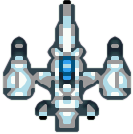
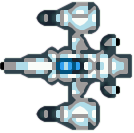
Introduce raptor

diff --git a/src/classes/raptor.ts b/src/classes/raptor.ts
@@ -1,0 +1,94 @@
+import * as Phaser from "phaser";
+import { GameManager } from "../gamemanager";
+import { Enemy } from "./enemy";
+import { HomingMissile } from "./homingmissile";
+
+export class Raptor extends Enemy {
+  protected speed: number;
+  protected fireRate: number = 2000;
+  protected time: number = 0;
+  protected lastFireTime: number = 0;
+  protected targetY: number;
+  protected currentY: number;
+  protected delay: number;
+
+  constructor(
+    scene: Phaser.Scene,
+    x: number,
+    y: number,
+    maxSpeed: number = 100,
+    minFireDelay: number = 1000
+  ) {
+    super(scene, x, y, "enemy2");
+    this.speed = Phaser.Math.Between(30, maxSpeed); // 100
+    if (Math.random() > 0.5) this.speed *= -1;
+
+    this.fireRate = Phaser.Math.Between(minFireDelay, 2000); // 1000
+    this.lastFireTime = 0;
+    this.scale = 0.8;
+
+    this.targetY = Phaser.Math.Between(
+      this.scene.game.canvas.height / 5,
+      this.scene.game.canvas.height / 2
+    );
+    this.delay = Phaser.Math.Between(0, 1000); // Add a random delay between 0 and 5000 milliseconds
+
+    this.currentY = -Phaser.Math.Between(
+      this.scene.game.canvas.height / 5,
+      this.scene.game.canvas.height / 2
+    );
+    this.x = Phaser.Math.Between(1, this.scene.game.canvas.width - 1);
+
+    this.scene.add.existing(this);
+  }
+
+  fireBullet() {
+    let bullet = new HomingMissile(
+      this.scene,
+      this.x + Math.cos(this.rotation) * (this.getBounds().width / 2),
+      this.y + Math.sin(this.rotation) * (this.getBounds().height / 2)
+    );
+    this.bulletSound.play();
+  }
+
+  preUpdate(time: number, delta: number) {
+    this.time += delta;
+
+    // Rotate towards player.
+    if (!!(this.scene as GameManager).player) {
+      // Calculate the angle between the enemy and the player
+      let angle = Phaser.Math.Angle.Between(
+        this.x,
+        this.y,
+        (this.scene as GameManager).player?.x ?? 0,
+        (this.scene as GameManager).player?.y ?? 0
+      );
+      this.rotation = angle;
+    } else {
+      // Rotate sprite
+      // radians = degrees * pi / 180.
+      this.rotation = Math.PI / 2; //90 degrees
+    }
+
+    this.x += this.speed * (delta * 0.01);
+    if (this.currentY < this.targetY) {
+      this.currentY += Math.abs(this.speed) * (delta * 0.01);
+    }
+
+    this.y = this.currentY + Math.cos(this.time * 0.005) * 60;
+
+    // Fire a bullet towards the player every fireRate in 1000ths of second
+    if (
+      this.time - this.lastFireTime > this.fireRate &&
+      this.time > this.delay
+    ) {
+      this.fireBullet();
+      this.lastFireTime = this.time;
+    }
+
+    // Change the enemy's direction if it reaches the edge of the screen
+    if (this.x < 0 || this.x > this.scene.game.canvas.width) {
+      this.speed *= -1;
+    }
+  }
+}

diff --git a/src/classes/homingmissile.ts b/src/classes/homingmissile.ts
@@ -1,0 +1,49 @@
+import * as Phaser from "phaser";
+import { GameManager } from "../gamemanager";
+
+export class HomingMissile extends Phaser.GameObjects.Sprite {
+  private speed: number;
+
+  constructor(scene: Phaser.Scene, x: number, y: number) {
+    super(scene, x, y, "missile"); // 'bullet' is the key of the bullet sprite in the game's asset cache
+
+    // Set the bullet's movement speed
+    this.speed = 100;
+
+    if (!!(scene as GameManager).player) {
+      // Calculate the angle between the enemy and the player
+      let angle = Phaser.Math.Angle.Between(
+        this.x,
+        this.y,
+        (scene as GameManager).player?.x ?? 0,
+        (scene as GameManager).player?.y ?? 0
+      );
+      this.rotation = angle;
+    } else {
+      // Rotate sprite
+      // radians = degrees * pi / 180.
+      this.rotation = Math.PI / 2; //90 degrees
+    }
+
+    this.name = "enemyBullet";
+
+    // Add the bullet's sprite to the game world
+    this.scene.add.existing(this);
+  }
+
+  preUpdate(time: number, delta: number) {
+    // Move the bullet up or down based on its angle
+    this.x += this.speed * (delta * 0.01) * Math.cos(this.rotation);
+    this.y += this.speed * (delta * 0.01) * Math.sin(this.rotation);
+
+    // Destroy the bullet if it goes off the screen
+    if (
+      this.y < -this.getBounds().height ||
+      this.y > this.scene.game.canvas.height ||
+      this.x > this.scene.game.canvas.width ||
+      this.x < -this.getBounds().width
+    ) {
+      this.destroy();
+    }
+  }
+}

diff --git a/src/gamemanager.ts b/src/gamemanager.ts
@@ -6,10 +6,11 @@ import { Explosion } from "./classes/explosition";
 import { Mothership } from "./classes/mothership";
 import { Phantom } from "./classes/phantom";
 import { Player } from "./classes/player";
+import { Raptor } from "./classes/raptor";
 import { Starfield } from "./classes/starfield";
 
 export class GameManager extends Phaser.Scene {
-  private player: Player | undefined = undefined;
+  public player: Player | undefined = undefined;
 
   public mothership: Mothership | undefined = undefined;
 
@@ -40,8 +41,10 @@ export class GameManager extends Phaser.Scene {
     this.load.image("gameOverLogo", "assets/logo.png");
     this.load.image("player", "assets/player.png");
     this.load.image("enemy", "assets/enemy.png");
+    this.load.image("enemy2", "assets/enemy2.png");
     this.load.image("mothership", "assets/mothership.png");
     this.load.image("bullet", "assets/bullet.png");
+    this.load.image("missile", "assets/missile.png");
     this.load.spritesheet("explosion_animation", "assets/explosion.png", {
       frameWidth: 192,
       frameHeight: 192,
@@ -231,6 +234,17 @@ export class GameManager extends Phaser.Scene {
         90 + this.wave * 2,
         1100 - this.wave * 40
       );
+    }
+    if (this.wave > 15) {
+      for (let i = 0; i < Math.min(this.wave / 3, 3); i++) {
+        new Raptor(
+          this,
+          i * 100 + 50,
+          -1000,
+          90 + this.wave * 2,
+          1100 - this.wave * 40
+        );
+      }
     }
   }
 

diff --git a/index.html b/index.html
@@ -12,6 +12,6 @@
     <meta property="og:image:height" content="549" />
   </head>
   <body style="background: #111111">
-    <script src="./dist/bundle.js?version=3"></script>
+    <script src="./dist/bundle.js?version=4"></script>
   </body>
 </html>
